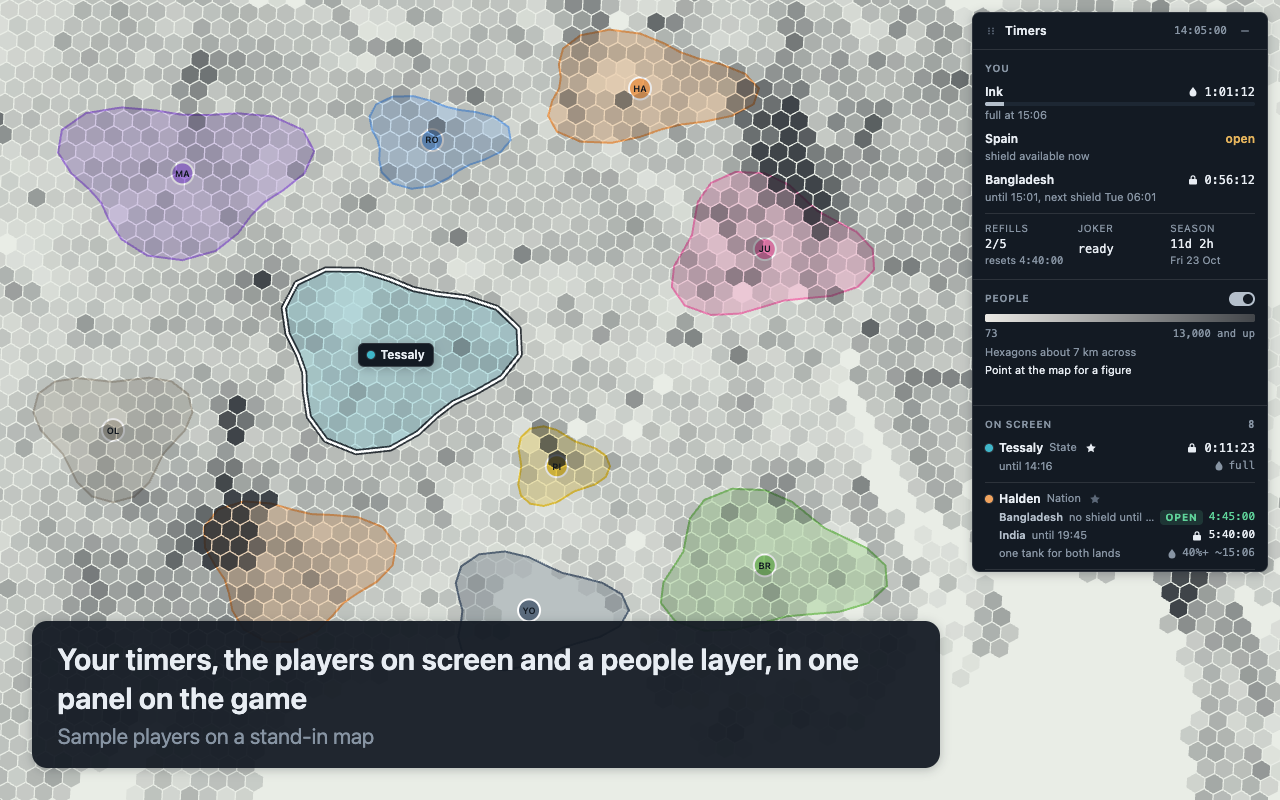
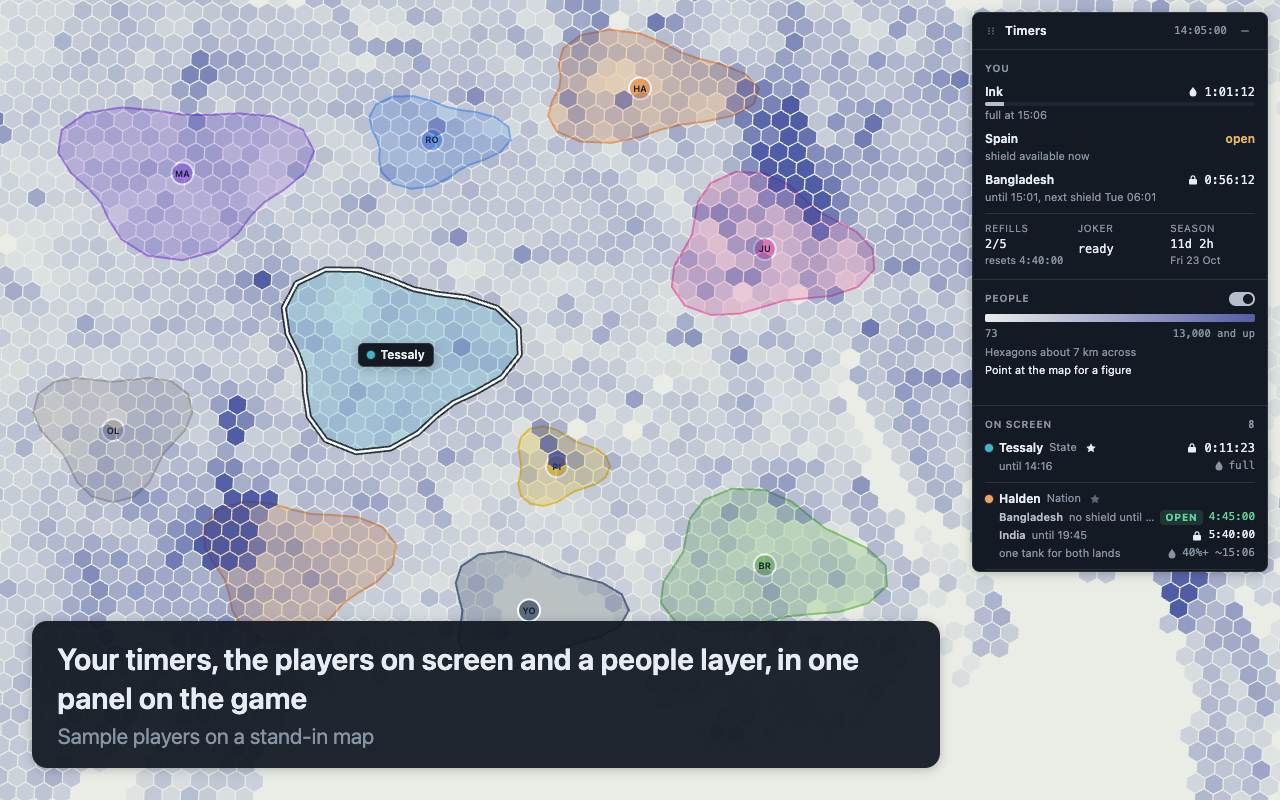
Shade the people layer in indigo instead of near-black
One hue, rgb(37,52,148), fading with density as before, in the layer and the panel's legend ramp. The store screenshots that show the layer are taken again.

diff --git a/src/panel.js b/src/panel.js
@@ -109,7 +109,7 @@ button:focus-visible{outline:2px solid var(--fg);outline-offset:1px}
 .switch[aria-checked="true"] i{left:14px;background:var(--bg)}
 @media (prefers-reduced-motion:reduce){.switch i{transition:none}}
 .legend{display:grid;gap:4px;font-size:11px}
-.ramp{height:8px;border-radius:2px;background:linear-gradient(90deg,rgba(16,21,28,.04),rgba(16,21,28,.78)),#f4f2ed}
+.ramp{height:8px;border-radius:2px;background:linear-gradient(90deg,rgba(37,52,148,.04),rgba(37,52,148,.78)),#f4f2ed}
 .ticks{display:flex;justify-content:space-between;color:var(--muted);font-size:10.5px}
 .hexes{color:var(--muted)}
 .here{min-height:2.7em}

diff --git a/test/heat.test.js b/test/heat.test.js
@@ -108,7 +108,7 @@ test('the layer is drawn after the map canvas, at its size, with the densest hex
   assert.deepEqual([canvas.style.left, canvas.style.top, canvas.style.width, canvas.style.height], ['0px', '0px', '1280px', '800px']);
   assert.deepEqual([canvas.width, canvas.height], [1280, 800]);
   assert.ok(pg.paths.length > 1000, 'paths ' + pg.paths.length);
-  assert.ok(pg.paths.some(p => p.fill === 'rgba(16,21,28,0.780)'));
+  assert.ok(pg.paths.some(p => p.fill === 'rgba(37,52,148,0.780)'));
   assert.ok(pg.paths.every(p => p.max - p.min < 40), 'hexagons are about 25 pixels across here');
 });
 

diff --git a/src/heat.js b/src/heat.js
@@ -5,7 +5,7 @@
   const P = IDT.people, J = IDT.project;
 
   const ID = 'inkdom-timers-people';
-  const INK = '16,21,28', INSET = 0.93, STRIP = 60, MAX_KEPT = 60000, GIVE_UP_MS = 8000;
+  const INK = '37,52,148', INSET = 0.93, STRIP = 60, MAX_KEPT = 60000, GIVE_UP_MS = 8000;
   const wrap = lng => ((((lng + 180) % 360) + 360) % 360) - 180;
 
   // The hexagons of level.res that hold people inside rect, each with its corners, people and people per km².
